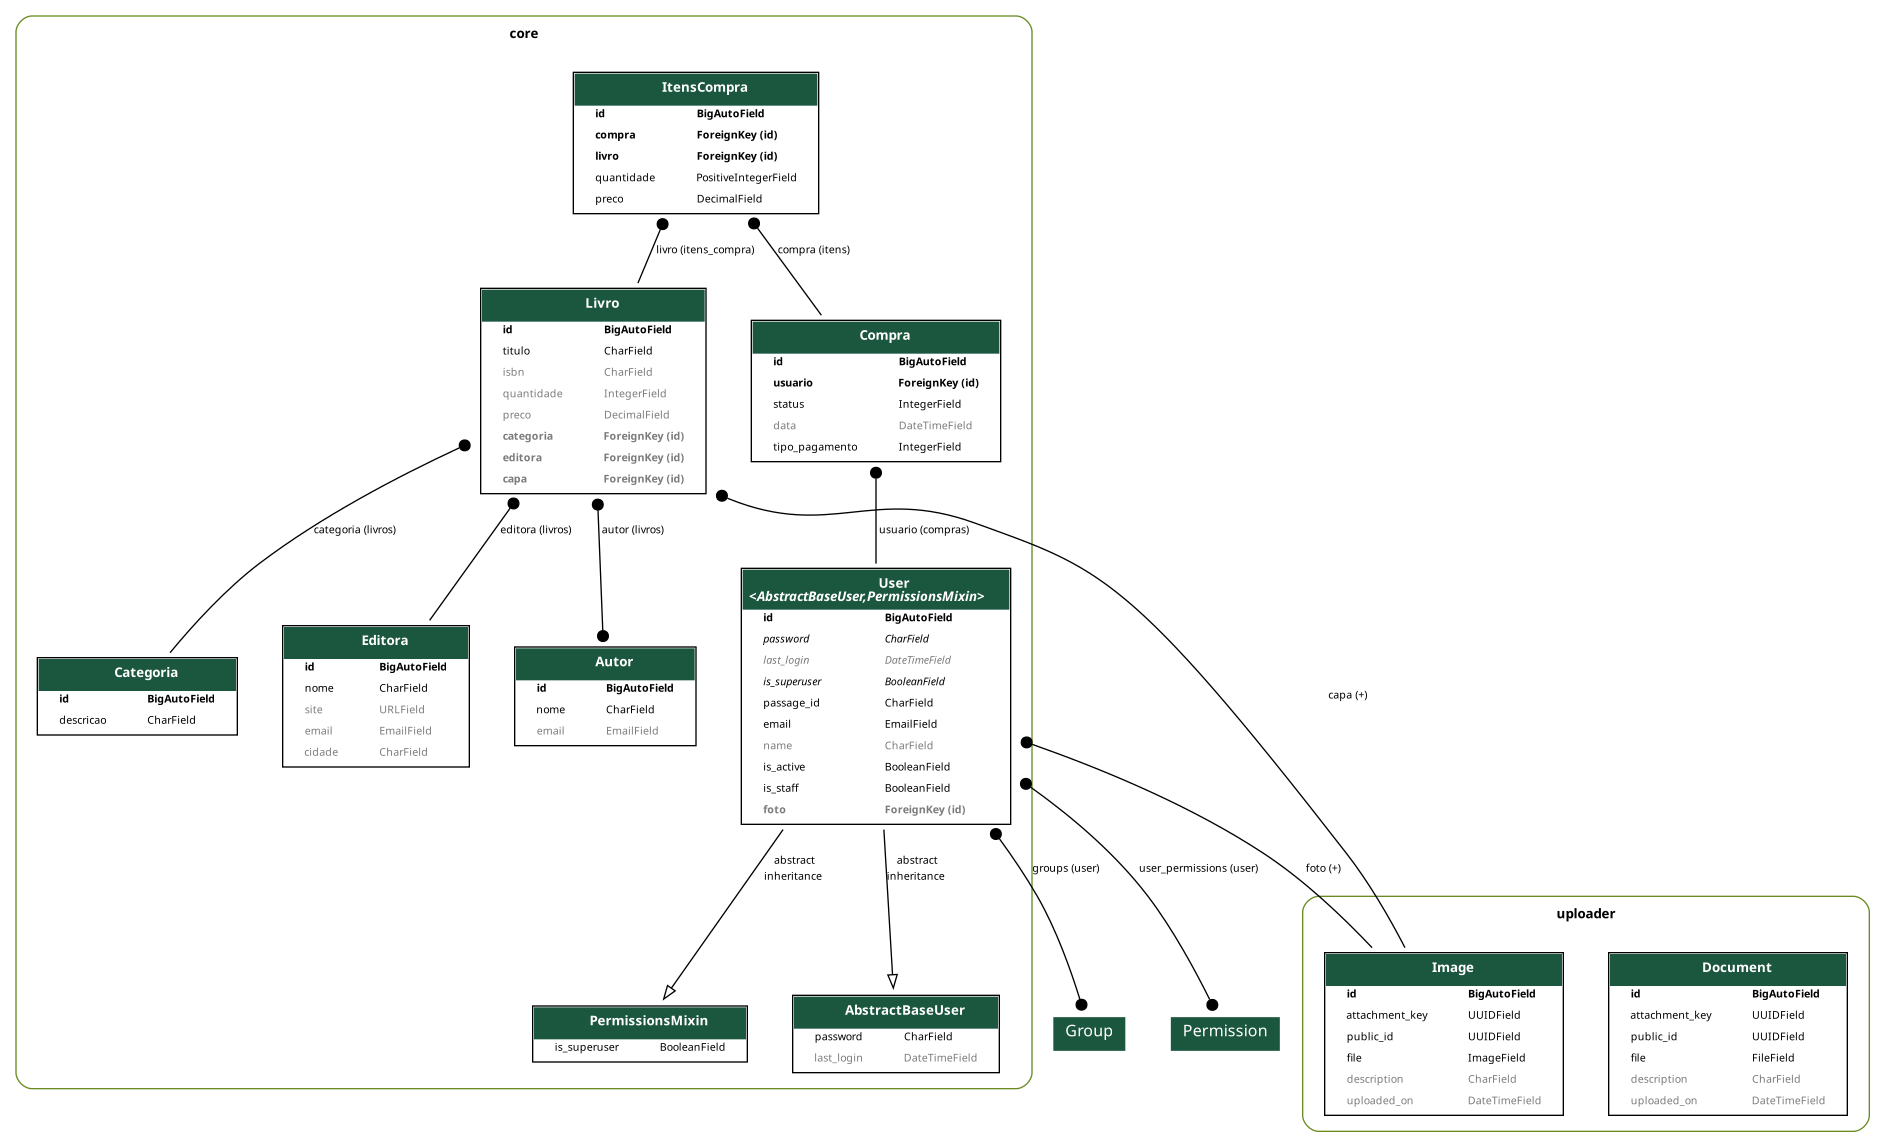
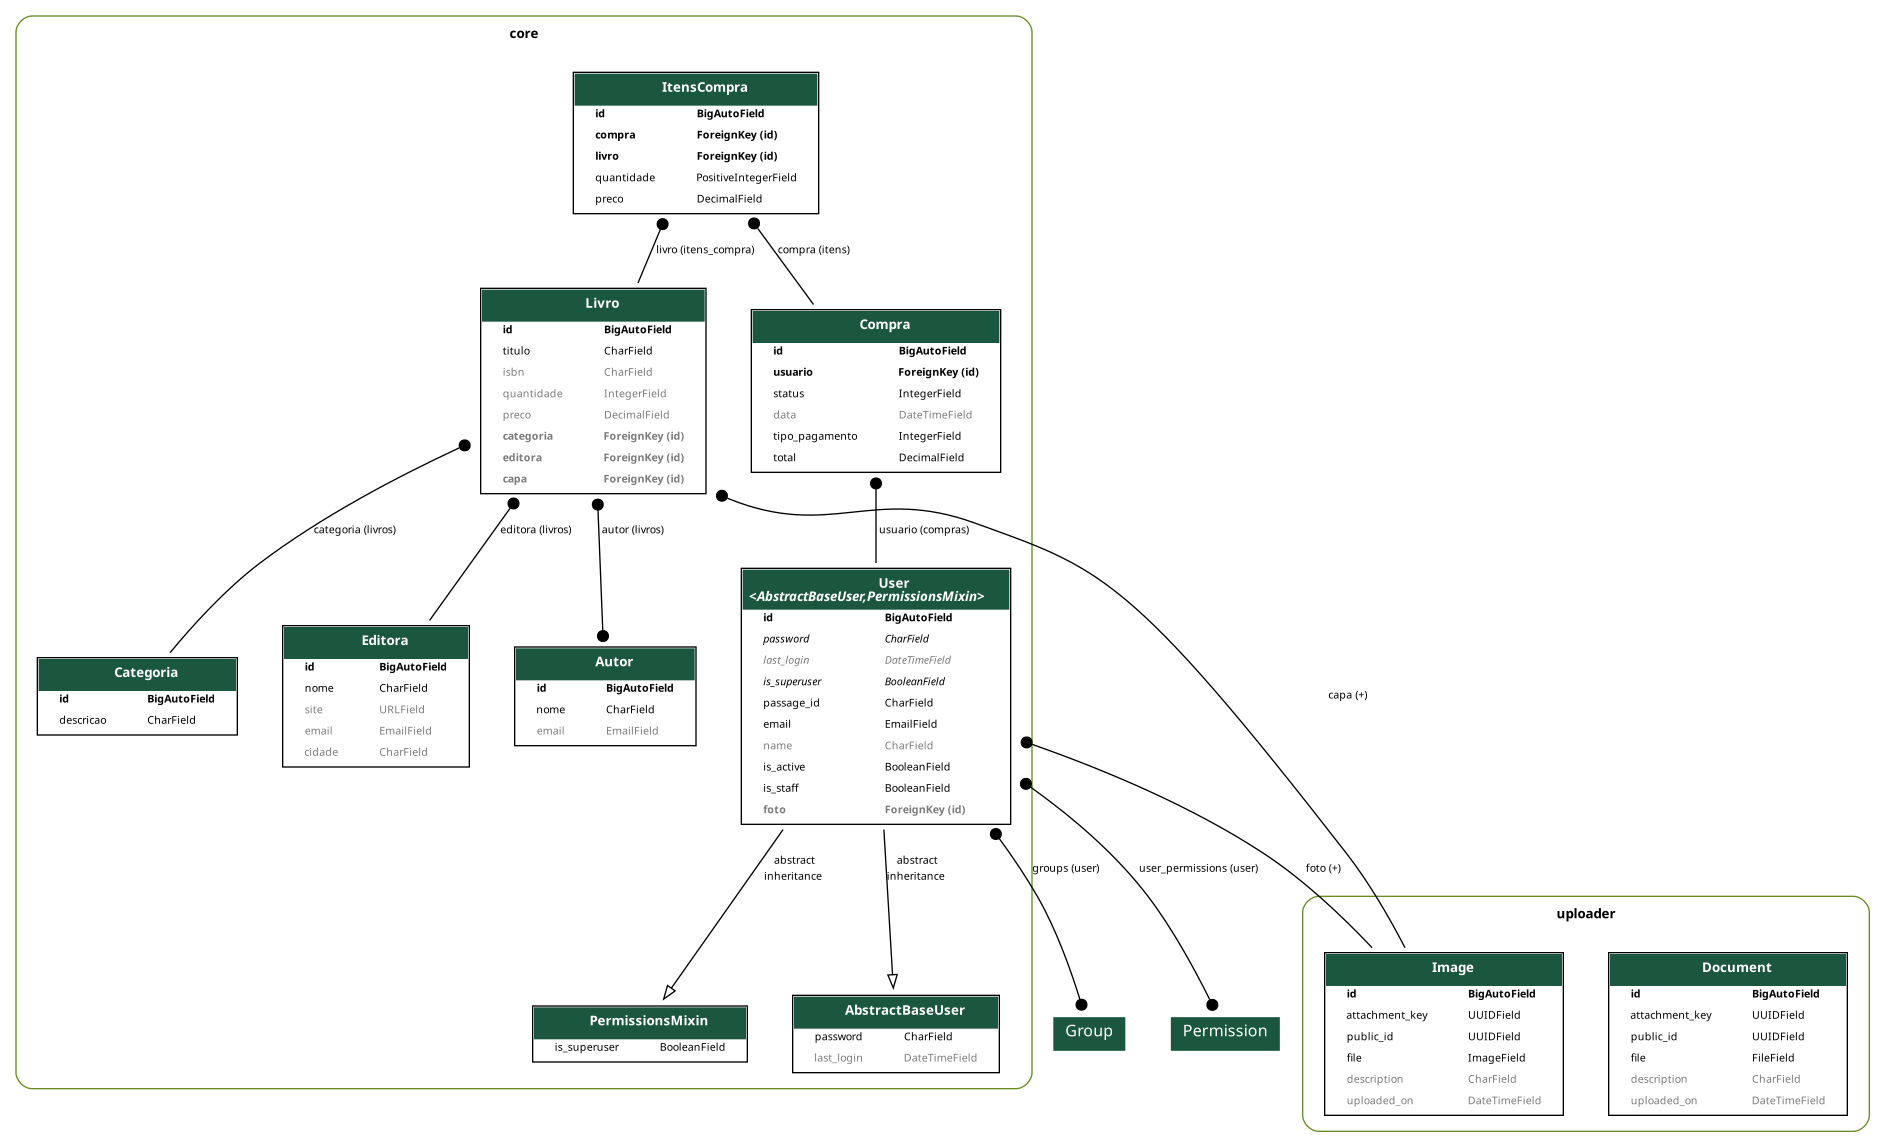
feat: adicionando o total da compra

Changed region(s): [[0.4, 0.2441, 0.5538, 0.4272]]

diff --git a/dev-web-II/livraria_backend/core/models/compra.py b/dev-web-II/livraria_backend/core/models/compra.py
@@ -23,10 +23,11 @@ class Compra(models.Model):
     status = models.IntegerField(choices=StatusCompra.choices, default=StatusCompra.CARRINHO)
     data = models.DateTimeField(auto_now_add=True)
     tipo_pagamento = models.IntegerField(choices=TipoPagamento.choices, default=TipoPagamento.CARTAO_CREDITO)
+    total = models.DecimalField(max_digits=10, decimal_places=2, default=0)
 
-    @property
-    def total(self):
-        return sum(item.preco * item.quantidade for item in self.itens.all())
+    def save(self, *args, **kwargs):
+        self.total = sum(item.preco * item.quantidade for item in self.itens.all())
+        super().save(*args, **kwargs)
 
 
 class ItensCompra(models.Model):

diff --git a/dev-web-II/livraria_backend/core/migrations/0021_compra_total.py b/dev-web-II/livraria_backend/core/migrations/0021_compra_total.py
@@ -1,0 +1,18 @@
+# Generated by Django 5.1.4 on 2025-01-24 19:27
+
+from django.db import migrations, models
+
+
+class Migration(migrations.Migration):
+
+    dependencies = [
+        ("core", "0020_alter_itenscompra_livro"),
+    ]
+
+    operations = [
+        migrations.AddField(
+            model_name="compra",
+            name="total",
+            field=models.DecimalField(decimal_places=2, default=0, max_digits=10),
+        ),
+    ]

diff --git a/dev-web-II/livraria_backend/core/serializers/compra.py b/dev-web-II/livraria_backend/core/serializers/compra.py
@@ -77,6 +77,7 @@ class CompraCreateUpdateSerializer(ModelSerializer):
                 item["preco"] = item["livro"].preco
                 ItensCompra.objects.create(compra=compra, **item)
 
+        compra.save()
         return compra
 
     def update(self, compra, validated_data):
